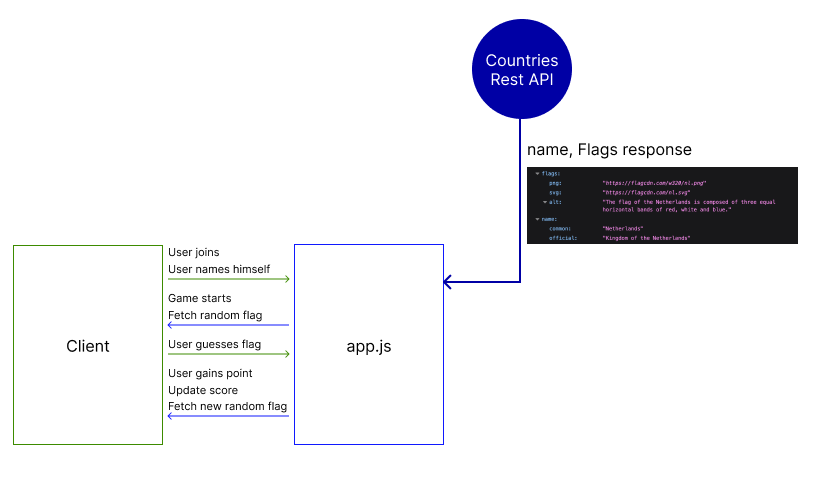
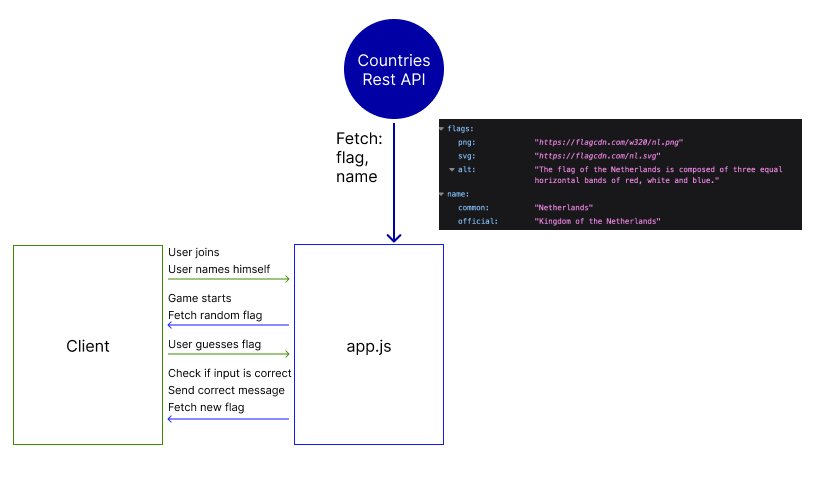
rdmeupdate

diff --git a/README.md b/README.md
@@ -13,14 +13,14 @@ Voor Real-Time web ben ik met NodeJS en sockets bezig geweest om een chat te mak
 
 In deze opdracht ga ik een guesser game maken waarbij je de vlaggen van de wereld moet gaan raden. Doormiddel van het gebruik van Sockets kan ik een chat aanmaken, waar je dan vervolgens met meerdere mensen kan typen, en kan gaan raden welke vlag het is.
 
-## Proces
+# Proces
 
 ### Starten met sockets
 Voor deze opdracht ben ik eerst begonnen het met opzetten van een NodeJS applicatie. Hierbij heb ik express, en sockets geïnstalleerd. Voor het opzetten van sockets heb ik gekeken naar het voorbeeld van de website van socket.io.
 
 - https://socket.io/get-started/chat
 
-### API
+## API
 Mijn idee is om een willekeurige vlag van de wereld te laten zien, die de gebruikers vervolgens moeten gaan raden. Hierbij heb ik deze API gevonden:
 
 Rest countries API om de landen en hun vlaggen op te halen.
@@ -34,11 +34,13 @@ fetch(`https://restcountries.com/v3.1/all?fields=name,flags`);
 
 Dit geeft mij alleen de naam, en de bijbehorende vlag van het land terug. Dit is vervolgens wat ik terug krijg van de API:
 
-#### Data model van API
+### Data model van API
 <img src="/readmeimgs/datamodelAPI.png" height=400px>
 
-Daarna heb ik een Data Flow Diagram gemaakt van hoe ik mijn applicatie wil gaan opzetten. 
+Daarna heb ik een Data Flow Diagram gemaakt van hoe ik mijn applicatie wil gaan opzetten. Ik wil beginnen met het ophalen van de data uit de API. Dit moet dan gekoppeld worden aan de chat. Als de gebruiker op de applicatie komt krijgt hij een input waar hij zijn naam kan invullen. Daarna kan je beginnen met chatten, en je ziet een willekeurige vlag. Als het goede antwoord geraden is in de chat, zal de server een bericht geven dat de vlag goed geraden is, en een nieuwe vlag genereren. 
 
-#### Data Flow Diagram
+### Data Flow Diagram
 <img src="/readmeimgs/dataflowdiagram.png" height=400px>
+
+## Applicatie
 
